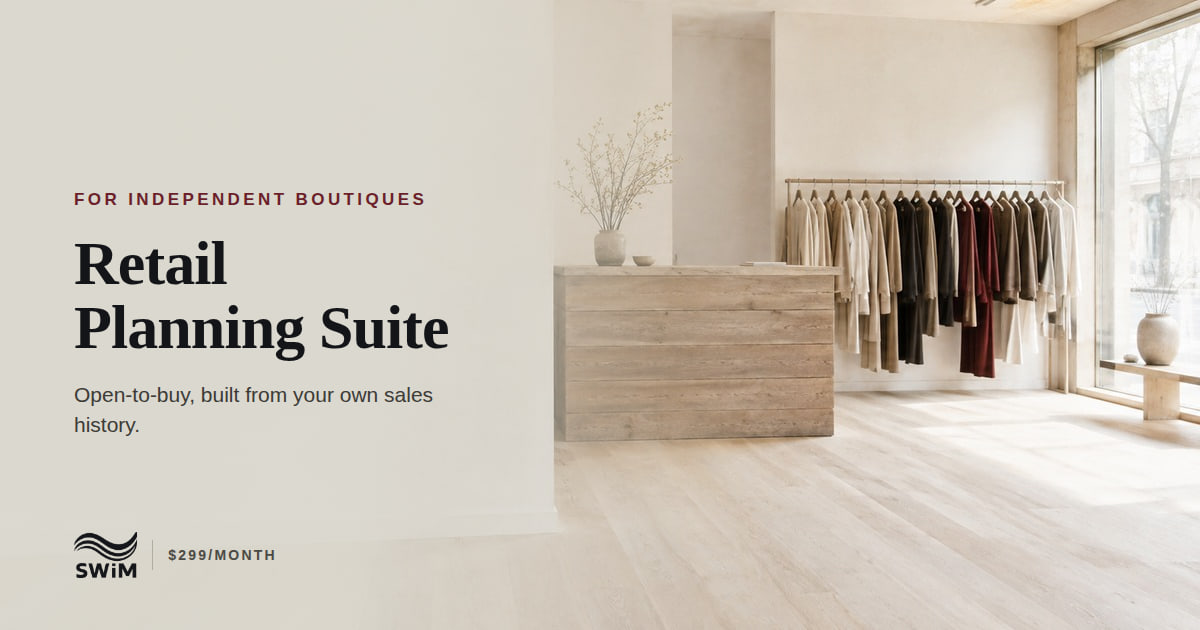
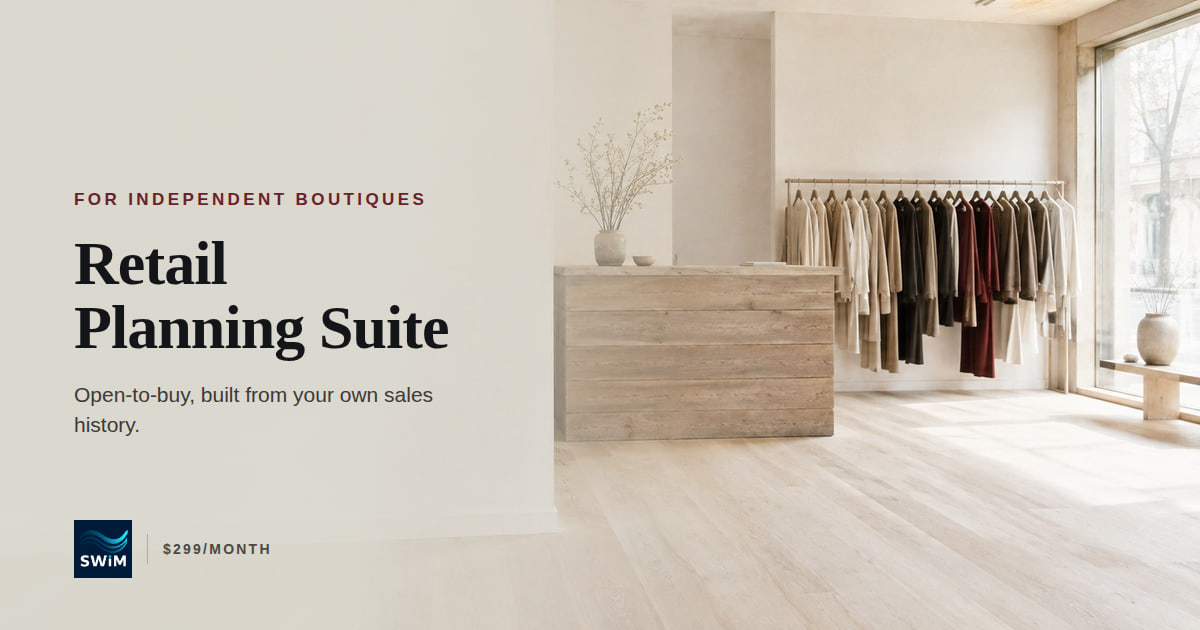
Use the navy SWiM badge on the landing page
Replaces the single-ink mark with swim-logo-navy.png. The badge carries its
own navy ground, so the white wordmark stays legible on the page's paper stock
without the artwork being recoloured at all — which is what the single-ink
version was working around. Same treatment in the masthead, the footer and the
share card.

Sized 52/60px rather than the 40/48 the mono mark used. The badge's artwork
fills 81% of its canvas horizontally but only 63% vertically, so at a given
height it reads a size smaller than a borderless mark; 60px is also where the
square stops competing with the oxblood CTA for weight. The masthead grew to
suit and the mobile fold still clears — terms line at 709px against 844.

The source is a 1024x1024 PNG at 823KB, roughly thirty times more pixels than
the page ever shows, so the build script now just resizes it to 216px (29KB).
The ink and oxblood stencils it used to produce are gone with their reason for
existing.

Claude-Session: https://claude.ai/code/session_01YRrGefUtXZgkaRLoZhexys

Changed region(s): [[0.0617, 0.8143, 0.2467, 0.9349]]

diff --git a/client/src/pages/retail-planning-suite/editorial.css b/client/src/pages/retail-planning-suite/editorial.css
@@ -78,16 +78,17 @@
   letter-spacing: -0.035em;
   line-height: .86;
 }.rps-editorial .fig .cur{ font-size:.46em; vertical-align: .82em; letter-spacing:0; margin-right:.04em; }/* ---------- masthead ---------- */.rps-editorial .masthead{
-  height:74px;
+  height:80px;
   display:flex; align-items:center;
   border-bottom: 1px solid var(--hair);
 }.rps-editorial .masthead .wrap{ display:flex; align-items:center; gap:10px; }
-/* The mark is the real SWiM logo printed in one ink — see
-   scripts/build-editorial-logo.mjs for why it is a separate file rather than
-   the shipped colour PNG. Sized by height so the two uses stay identical. */
+/* The SWiM badge — a square that carries its own navy ground, so the white
+   wordmark stays legible on paper. Sized by height; the artwork's own padding
+   means it reads a size smaller than a borderless mark at the same
+   measurement, which is why 52/60 rather than 40/48. */
 .rps-editorial .logo{ display:inline-flex; align-items:center; line-height:1; }
-.rps-editorial .logo img{ display:block; height:40px; width:auto; }
-@media (min-width:900px){.rps-editorial .masthead{ height:92px; }.rps-editorial .logo img{ height:48px; }}/* ---------- section shell + rail ---------- */.rps-editorial .sec{ padding: 54px 0 58px; }
+.rps-editorial .logo img{ display:block; height:52px; width:auto; }
+@media (min-width:900px){.rps-editorial .masthead{ height:96px; }.rps-editorial .logo img{ height:60px; }}/* ---------- section shell + rail ---------- */.rps-editorial .sec{ padding: 54px 0 58px; }
 @media (min-width:900px){.rps-editorial .sec{ padding: 104px 0 112px; }}.rps-editorial .sec.ruled{ border-top: 1px solid var(--hair); }.rps-editorial .grid{ display:block; }
 @media (min-width:900px){.rps-editorial .grid{ display:grid; grid-template-columns: 178px minmax(0,1fr); column-gap: 56px; align-items:start; }}.rps-editorial .rail{
   display:flex; align-items:baseline; gap:12px;

diff --git a/client/src/pages/RetailPlanningSuite.tsx b/client/src/pages/RetailPlanningSuite.tsx
@@ -24,10 +24,10 @@ import {
   WHAT_THIS_ISNT,
 } from "./retail-planning-suite/copy";
 import { plateSources } from "./retail-planning-suite/plate-sources";
-// The real SWiM mark, printed in a single ink for this page's paper stock.
-// The shipped colour logo has a white wordmark and vanishes on it —
-// scripts/build-editorial-logo.mjs builds this from the same artwork.
-import swimMark from "../assets/retail/swim-ink.png";
+// The SWiM badge. The site's usual logo has a white wordmark that vanishes on
+// this page's paper stock; this one carries its own navy ground and reads on
+// any surface. scripts/build-editorial-logo.mjs resizes it for the web.
+import swimMark from "../assets/retail/swim-badge.png";
 import "./retail-planning-suite/editorial.css";
 
 /**
@@ -244,7 +244,7 @@ const RetailPlanningSuite: React.FC = () => {
       <header className="masthead">
         <div className="wrap">
           <Link href="/" className="logo" aria-label="SWiM — home">
-            <img src={swimMark} alt="SWiM" width={412} height={300} />
+            <img src={swimMark} alt="SWiM" width={216} height={216} />
           </Link>
         </div>
       </header>
@@ -694,7 +694,7 @@ const RetailPlanningSuite: React.FC = () => {
         <div className="wrap foot-in">
           <div>
             <Link href="/" className="logo" aria-label="SWiM — home">
-              <img src={swimMark} alt="SWiM" width={412} height={300} />
+              <img src={swimMark} alt="SWiM" width={216} height={216} />
             </Link>
             <p className="meta" style={{ margin: "12px 0 0" }}>
               <a href={`mailto:${CONTACT_EMAIL}`}>{CONTACT_EMAIL}</a>

diff --git a/design/share-card/card.html b/design/share-card/card.html
@@ -40,11 +40,11 @@
     position:absolute; left:74px; bottom:52px;
     display:flex; align-items:center; gap:15px;
   }
-  /* The real mark, printed in one ink — same file the page uses. The span
+  /* The real mark, printed in one ink — same badge the page uses. The span
      needs its own box: a block-level image inside a bare inline span leaves
      the span zero-width, and the row collapses on top of it. */
   .logo{ display:inline-flex; align-items:center; }
-  .logo img{ display:block; height:46px; width:auto; }
+  .logo img{ display:block; height:58px; width:auto; }
   .bar{ width:1px; height:30px; background:#B0ACA0; }
   .price{ font-family:Archivo,sans-serif; font-weight:700; font-size:14px; letter-spacing:.16em; text-transform:uppercase; color:#4A4943; }
 </style>
@@ -57,7 +57,7 @@
     <p class="sub">Open-to-buy, built from your own sales history.</p>
   </div>
   <div class="foot">
-    <span class="logo"><img src="swim-ink.png" alt="SWiM"></span>
+    <span class="logo"><img src="swim-badge.png" alt="SWiM"></span>
     <span class="bar"></span>
     <span class="price">$299/month</span>
   </div>
